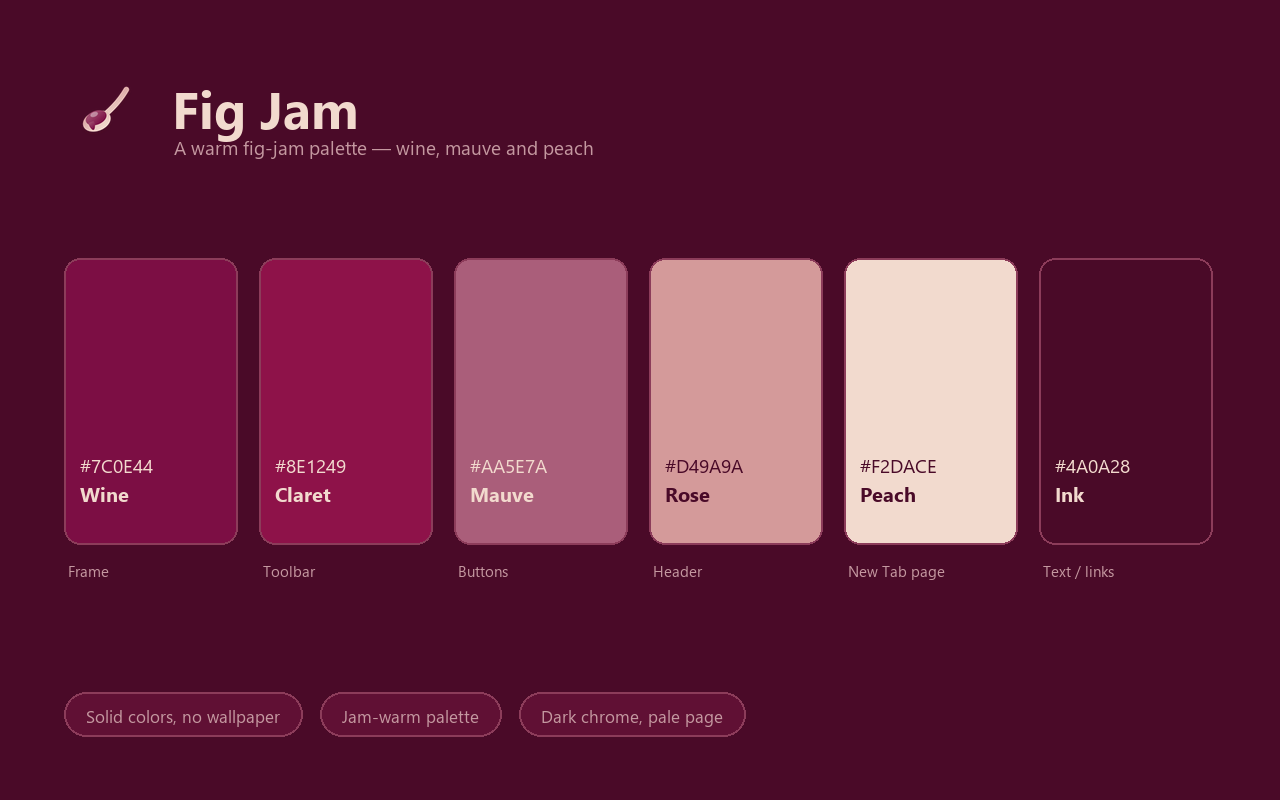
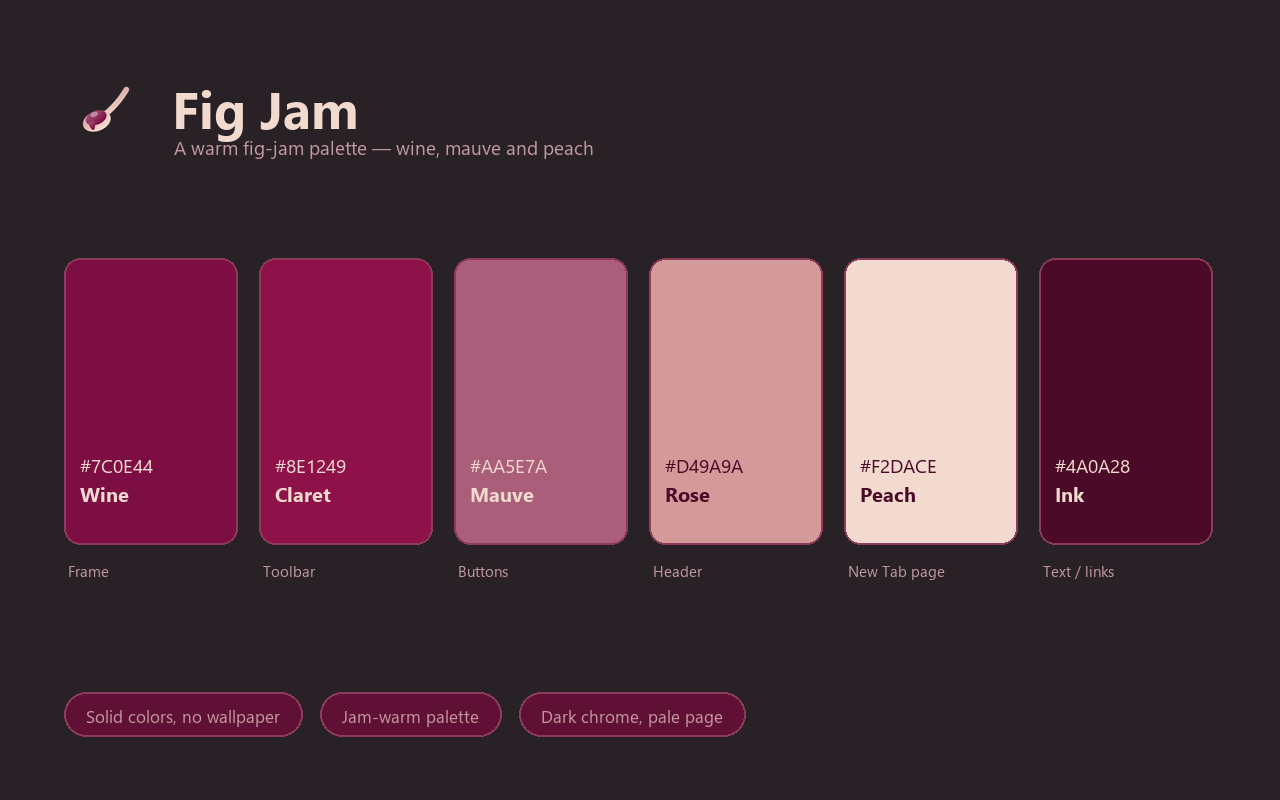
色卡图背景改为中性深灰紫，避免与色卡撞色
- 原背景 #4A0A28 与 Ink 色卡同色，导致那张卡融进背景
- 新背景 #282226（中性深灰紫），与任一色卡的通道差 >= 18
- 加断言：背景与色卡距离不足时生成即报错，防止复发
- README 截图引用升 ?v=2；重新打包 zip 覆盖

diff --git a/scripts/generate-screenshot-2-palette.py b/scripts/generate-screenshot-2-palette.py
@@ -33,7 +33,9 @@ W, H = 1280, 800
 MARGIN = 64
 RIGHT = W - MARGIN
 
-BG = (74, 10, 40)                        # espresso — outside the swatch set
+BG = (40, 34, 38)                        # neutral plum-grey — outside the swatch set
+                                         # (the old #4A0A28 equalled the Ink card, so
+                                         #  that card vanished into the background)
 TEXT_MAIN = (242, 218, 206)
 TEXT_DIM = (196, 152, 160)
 BORDER = (140, 60, 90)
@@ -76,6 +78,13 @@ def main():
         ("Ink", "#4A0A28", "Text / links"),
     ]
     ink = (74, 10, 40)
+
+    # the background must not repeat any swatch, otherwise that card disappears
+    for _name, _hx, _role in swatches:
+        _c = hex2rgb(_hx)
+        _delta = max(abs(BG[i] - _c[i]) for i in range(3))
+        assert _delta >= 18, "background %s is too close to swatch %s %s (delta %d)" % (
+            "#%02X%02X%02X" % BG, _name, _hx, _delta)
 
     img = Image.new("RGB", (W, H), BG)
     d = ImageDraw.Draw(img)

diff --git a/README.md b/README.md
@@ -51,7 +51,7 @@ The source palette is four steps of one warm red-purple — fig wine, claret, du
 
 | Browser | Palette |
 |:-:|:-:|
-| <img src="https://raw.githubusercontent.com/vaxicy/fig-jam-theme/main/store-assets/screenshots/en/screenshot-1-browser.png" width="420" alt="Fig Jam New Tab"> | <img src="https://raw.githubusercontent.com/vaxicy/fig-jam-theme/main/store-assets/screenshots/en/screenshot-2-palette.png" width="420" alt="Fig Jam palette"> |
+| <img src="https://raw.githubusercontent.com/vaxicy/fig-jam-theme/main/store-assets/screenshots/en/screenshot-1-browser.png" width="420" alt="Fig Jam New Tab"> | <img src="https://raw.githubusercontent.com/vaxicy/fig-jam-theme/main/store-assets/screenshots/en/screenshot-2-palette.png?v=2\" width="420" alt="Fig Jam palette"> |
 
 ## Installation
 
